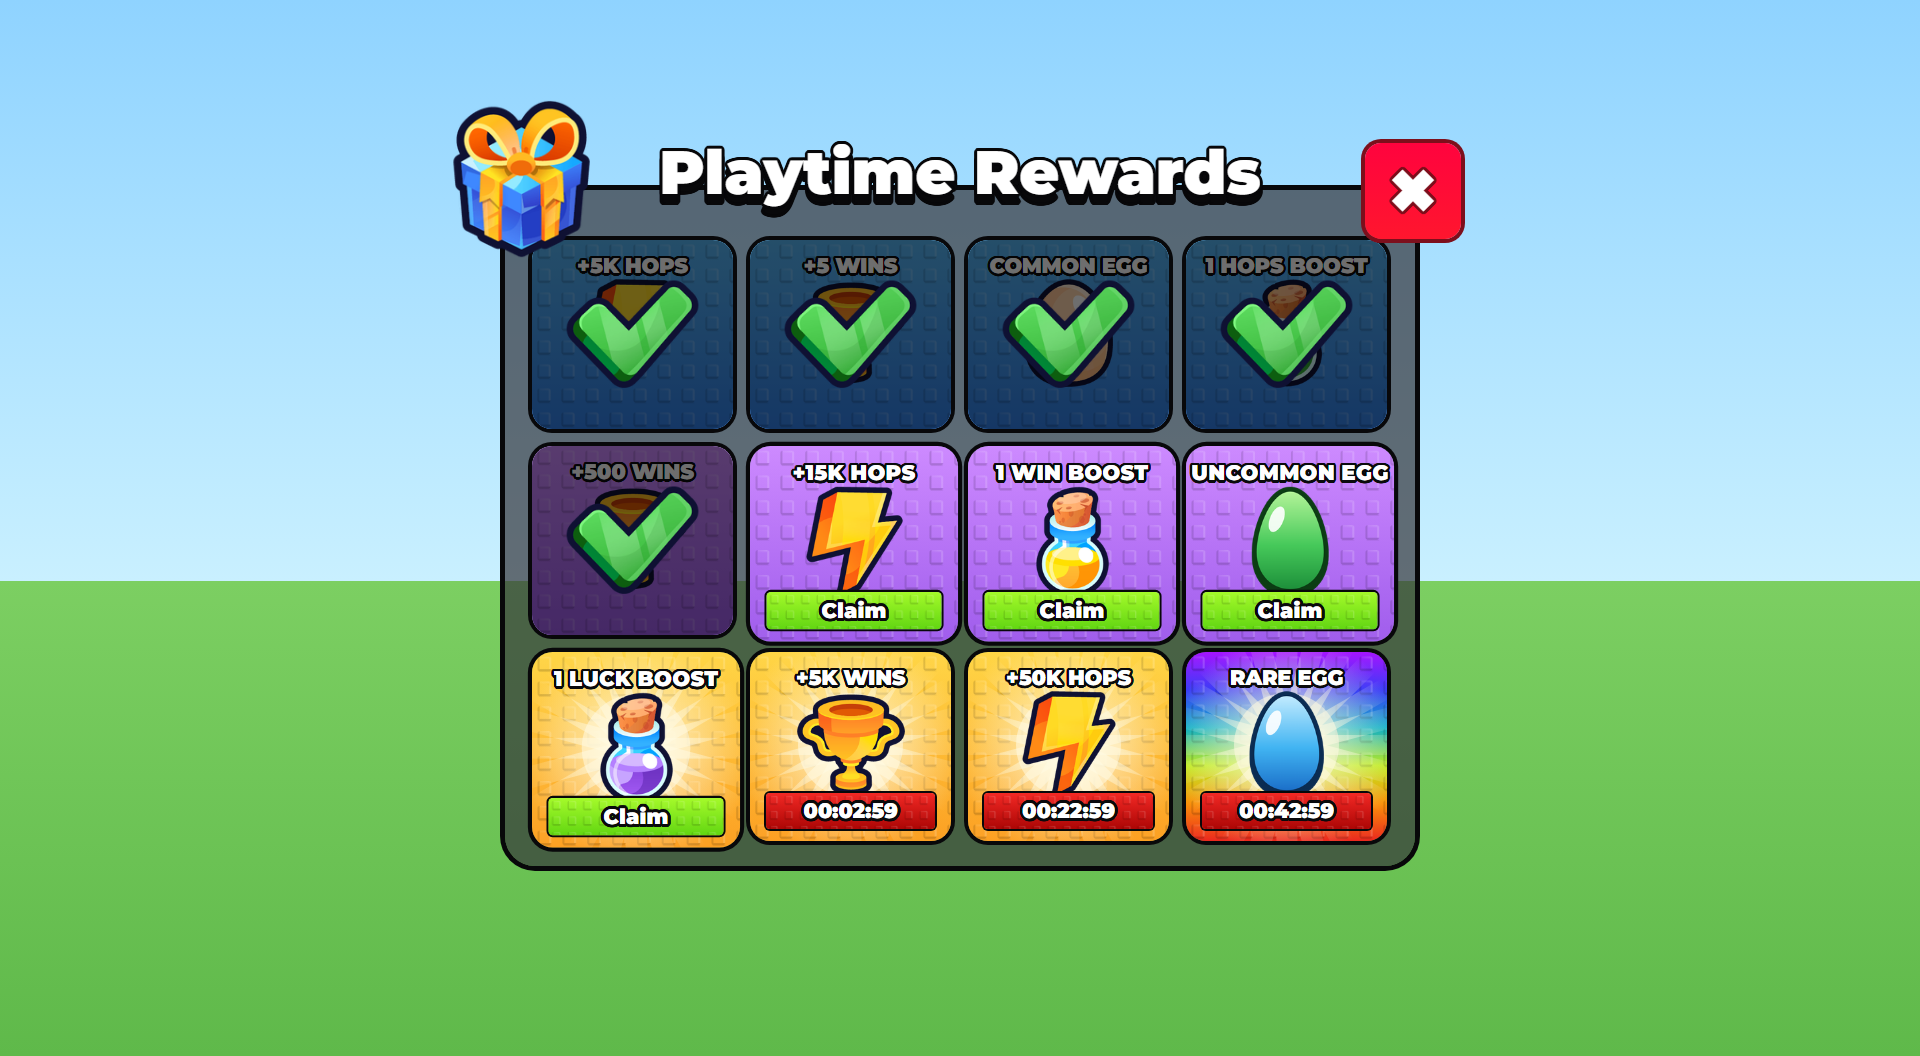
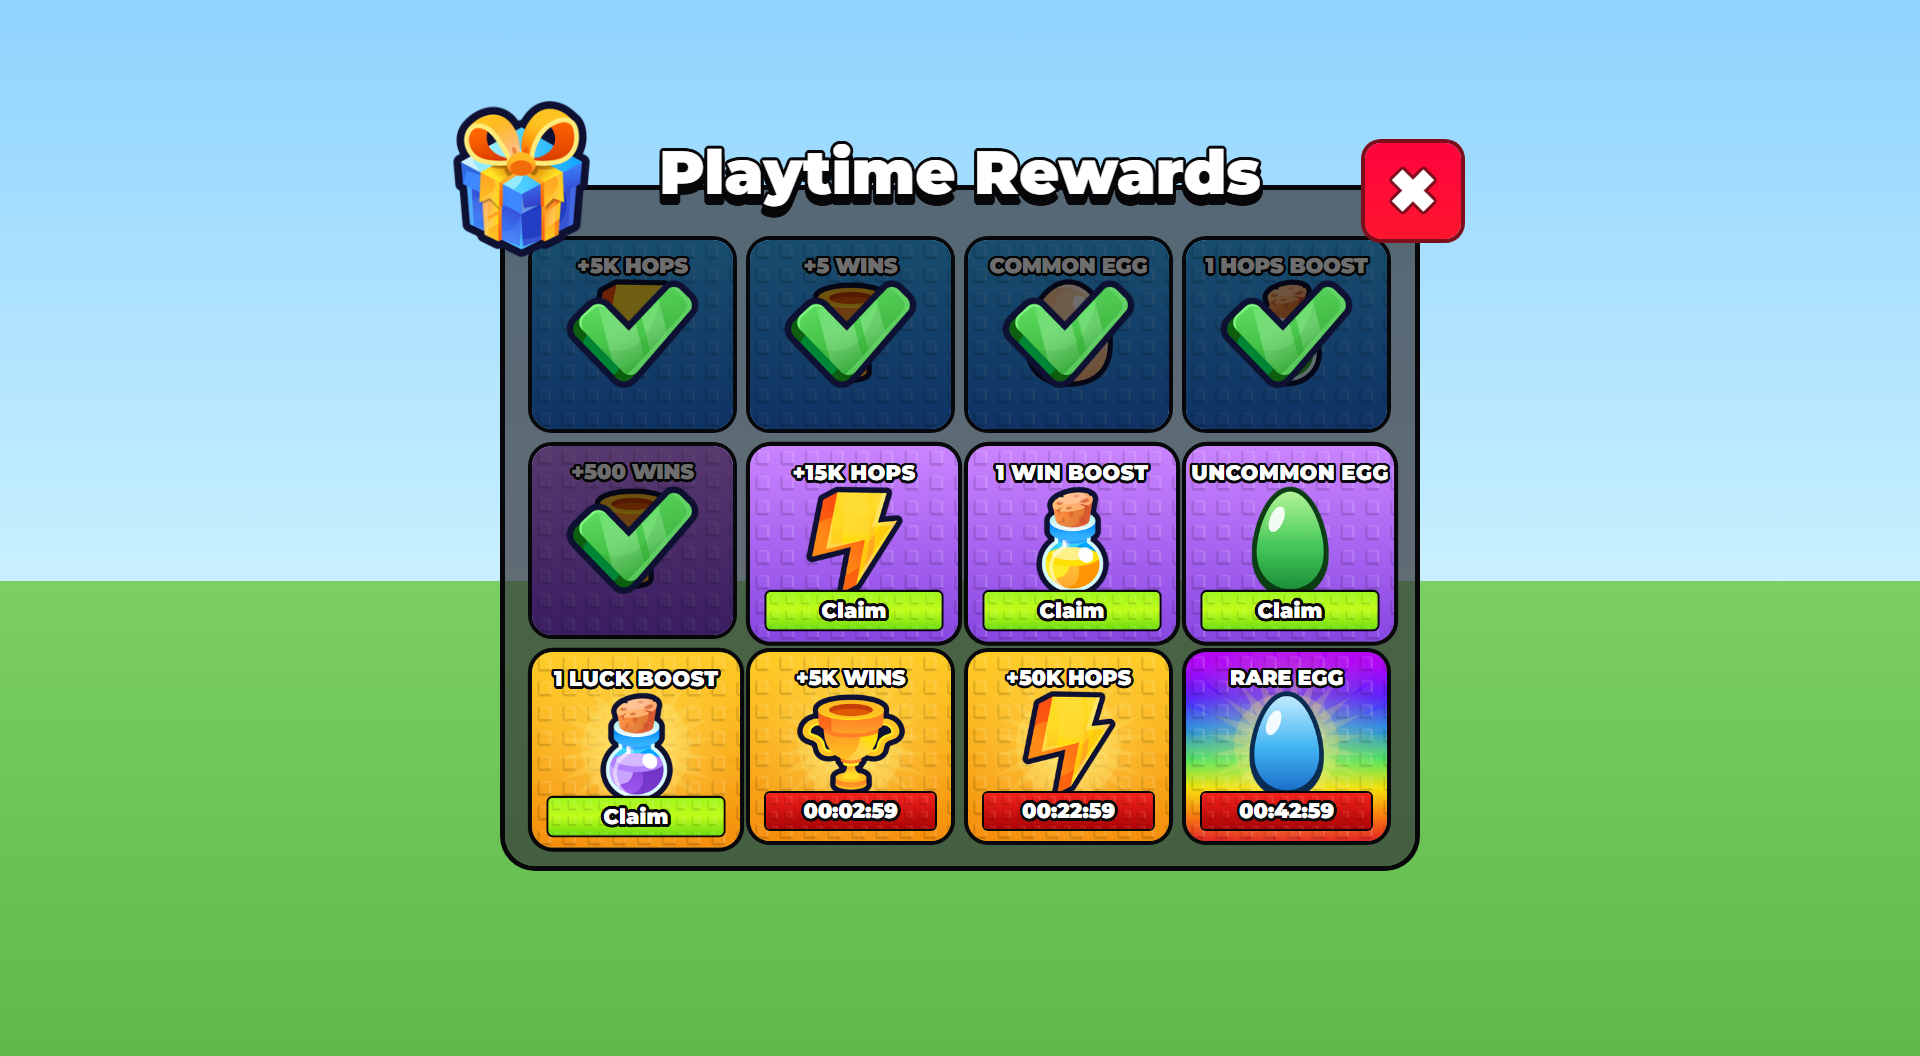
Gradients sampled from the references: more saturated cards, bars, rainbow and pass cards

Changed region(s): [[0.25, 0.5625, 0.75, 0.8125], [0.5312, 0.7812, 0.5938, 0.8125], [0.4062, 0.7812, 0.4688, 0.8125]]

diff --git a/docs/Devlog/2026-10-12.md b/docs/Devlog/2026-10-12.md
@@ -58,3 +58,4 @@ tags: [devlog]
 - **Fonts, colours, rebirth icon:** menus/hatch/pop-ups switched to the reference font (GothamBlack = Montserrat Black), window titles get the black extruded shadow, black outlines everywhere, all button/card/panel colours sampled from the screenshots. (A redrawn vector rebirth icon was tried; back to the pack icon at your request.)
 - **Frame sizes to your full-screen screenshots:** windows are now fixed pixel sizes at 1920×1080 (default 914×618; Daily 1026×695, Gifts 914×720, Worlds 1025×805 with no corner icon, Settings 560 tall) with a thin black edge, bigger title, 170 px corner icon and a 96 px close button (no studs). Rebirth, My Pets (245×90 side tabs, 230 px details, 128 px tiles), Shop (885×305 Starter Pack), Gifts (4-wide 207×195 cards: orange counting down, purple ready, blue claimed, rainbow best gift, red timer / green CLAIM bars), Daily (reference card grid, click today's card to claim, "Next reward in: 21:13:33" under the window, white hover info card) and Worlds (942×282 picture cards, 400×85 status button) all laid out to the measured pixels. HUD bottom stack and pass cards nudged to match; Green buttons brighter. New: `Components/RewardTooltip`, `Format.clock` (tested).
 - **Pixel-match pass (Playtime Rewards, Rebirth, Shop):** each window overlaid on its reference screenshot and fixed until they line up. Found the screenshots include the 23 px Windows title bar, so the design view is now **1920×1056** with menus centred on the whole view, and the **whole HUD hides** while a menu is open (like the reference). Gifts renamed **Playtime Rewards**: 12 rewards copied from the reference (Hops, Wins, boosts and Common/Uncommon/Rare eggs, which now hatch a pet straight into your inventory), 201×189 tier-coloured cards (blue/purple/orange/rainbow rows), green Claim / red 00:00:00 bars, dark claimed cards with a tick, ready cards pulse. New studs texture drawn to the reference bevel. Titles are now a fixed size with a 3 px outline and solid shadow; close button is a flat red square with a dark-red × outline. Rebirth and Shop use the reference's near-square 910×614 window with a thin edge; Starter Pack card has the black edge + gold rim and outlined title. Uncommon/Rare eggs are vectors (not in the icon pack). **Rule change:** rebirthing no longer resets Wins (only Hops and Level).
+- **Colour match:** sampled the gradients down/across the reference cards and retuned ours (they were lighter and greyer): Playtime card tiers more saturated with darker bottoms, rainbow card with bands at the reference heights, faint same-hue rays instead of white ones, green bars with a yellow-green shine, Blue preset cyan → royal blue, a 9-colour pastel Rainbow (Starter Pack, +1M), and new Lime / Gold presets for the HUD +2x Hops / 2x Wins cards.
